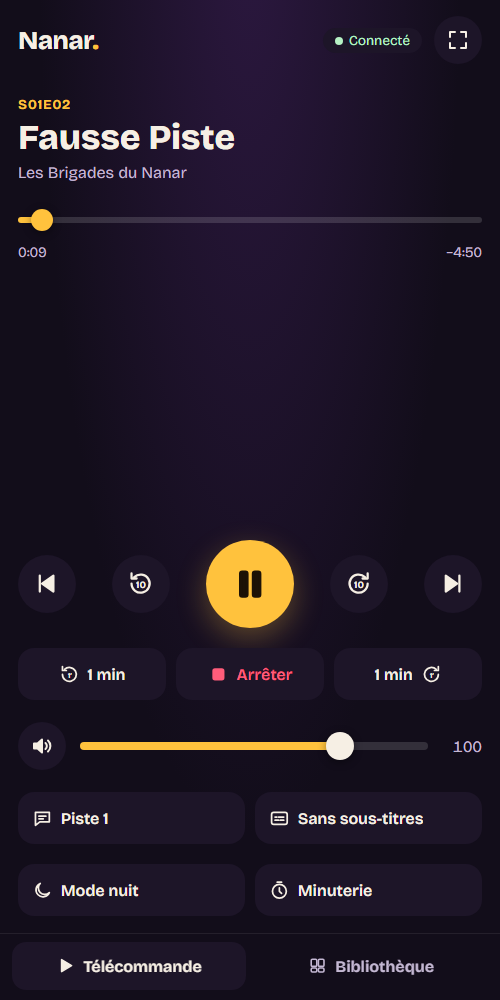
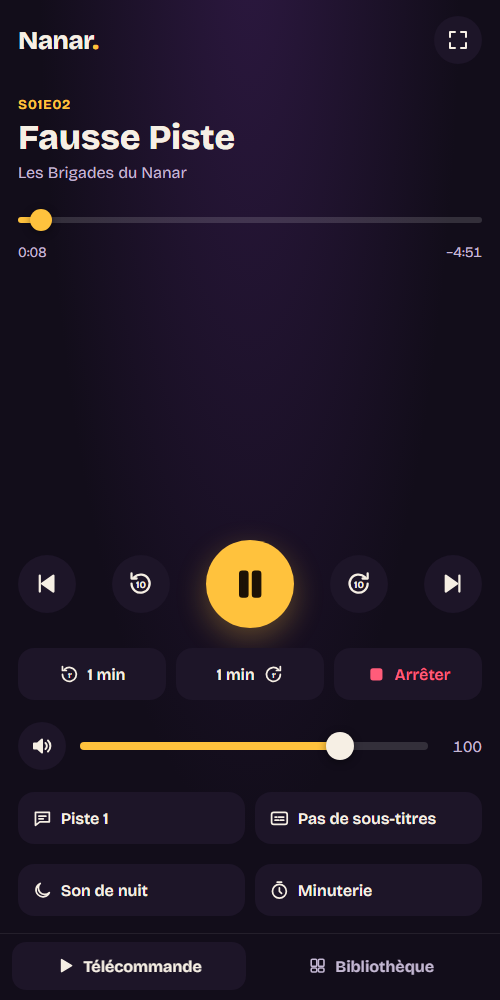
docs: state the limits of plain HTTP, and match the new names

diff --git a/README.md b/README.md
@@ -107,8 +107,8 @@ mires générées à la volée.
 3. Ajoute-la à l’écran d’accueil pour la retrouver d’un geste : sur iPhone, bouton Partager puis
    « Sur l’écran d’accueil » ; sur Android, menu ⋮ puis « Ajouter à l’écran d’accueil ».
 
-Rien ne s’ouvre ? Bouton **Téléphone**, en haut de la télé : ce qu’il faut vérifier, et le mode
-hôtel.
+Rien ne s’ouvre ? Bouton **Connecter un téléphone**, en haut de la télé : ce qu’il faut vérifier, et
+le mode hôtel.
 
 Le code de la télé contient l’adresse du PC, qui change d’un Wi-Fi à l’autre. Nanar s’annonce aussi
 sous le nom **`nanar.local`** : quand ton téléphone sait trouver ce nom (les iPhone toujours, Android
@@ -121,15 +121,16 @@ peut la piloter. Depuis le dossier de Nanar, Nanar fermé, `.\Nanar.exe --new-ke
 (les téléphones associés devront le rescanner), et `.\Nanar.exe --local` coupe la télécommande.
 
 **À l’hôtel ou chez des amis**, le Wi-Fi isole souvent les appareils les uns des autres : le
-téléphone ne voit pas le PC. Sur la télé, bouton **Téléphone**, puis **Ouvrir un Wi-Fi Nanar** : Nanar
+téléphone ne voit pas le PC. Sur la télé, bouton **Connecter un téléphone**, puis **Ouvrir un Wi-Fi Nanar** : Nanar
 ouvre le point d’accès sans fil de Windows, qui partage la connexion du PC, et affiche deux QR codes,
 l’un pour rejoindre ce Wi-Fi, l’autre pour la télécommande. Il le referme quand tu fermes Nanar.
 Autre solution : active le partage de connexion de ton téléphone et connecte le PC dessus ; le QR
 code de la télé suit le changement de réseau en une trentaine de secondes.
 
 Les échanges ne sont pas chiffrés : sur un Wi-Fi public, quelqu’un de mal intentionné sur le même
-réseau pourrait voir ce que tu regardes, et même récupérer le code pour piloter Nanar. Le Wi-Fi Nanar
-ou le partage de connexion évitent ça.
+réseau pourrait voir ce que tu regardes, et même récupérer le code pour piloter Nanar, jusqu’à voir
+la liste de tes vidéos et leurs images. Le Wi-Fi Nanar ou le partage de connexion évitent ça tant que
+le téléphone y reste. Si ça arrive, `.\Nanar.exe --new-key` change le code.
 
 ## Affiches et sous-titres en ligne (en option)
 
@@ -142,7 +143,7 @@ de la télé : une page explique pas à pas comment obtenir chaque clé, gratuit
   va.
 - **OpenSubtitles**, pour les sous-titres. Le bouton apparaît dans les sous-titres de la
   télécommande. Nanar envoie le titre, l’année, l’épisode et l’empreinte de la vidéo (un calcul sur
-  le fichier, qui permet de trouver des sous-titres calés sur ta version, sans dévoiler son
+  le fichier, qui dit quelle version tu as pour trouver des sous-titres calés, sans envoyer son
   contenu). Une fois choisis pour une série, ils sont cherchés tout seuls pour les épisodes suivants,
   dans la limite de cinq par jour. Ils sont gardés dans le dossier de données de Nanar, pas à côté
   de tes films.

diff --git a/CHANGELOG.md b/CHANGELOG.md
@@ -15,8 +15,7 @@ Remplace le dossier à la main une dernière fois.
   déjà ouverte, et `nanar.local` n’annonce plus une adresse que le téléphone ne peut pas joindre.
 - **La télécommande ne se retrouve plus « pas encore associée »** quand elle repasse de
   `nanar.local` à l’adresse du PC : elle s’y associe toute seule, et revient au nom dès qu’il répond.
-- « Connecté » ne s’affiche plus sur un Nanar disparu : la télécommande remarque le silence et
-  repart d’elle-même.
+- La télécommande remarque quand Nanar ne répond plus, et repart d’elle-même.
 - **La mise à jour en un clic marche**, et l’ancienne version revient si la nouvelle ne répond pas.
 - Sécurité : une adresse piégée pouvait faire se connecter le PC à une autre machine, sans clé ; un
   programme posé dans un dossier de films pouvait être lancé à la place de PowerShell. Les deux
@@ -34,8 +33,8 @@ Remplace le dossier à la main une dernière fois.
 - **Une page pour obtenir chaque clé** (TMDB, OpenSubtitles) : les étapes, un bouton pour ouvrir la
   page, de quoi copier les réponses du formulaire. La clé ne s’affiche plus en grand une fois
   enregistrée.
-- **« Téléphone » et « Réglages » en haut de la télé**, plus au bout de la bibliothèque. « Téléphone »
-  dit quoi vérifier quand rien ne s’ouvre, et mène au mode hôtel.
+- **« Connecter un téléphone » et « Réglages » en haut de la télé**, plus au bout de la
+  bibliothèque. Le premier dit quoi vérifier quand rien ne s’ouvre, et mène au mode hôtel.
 - Une série s’ouvre sur l’épisode où tu en es, avec « Reprendre » sur le téléphone. Le téléphone
   explique comment se mettre sur l’écran d’accueil.
 - « Mode nuit » devient « Son de nuit », et d’autres textes plus clairs. Le bandeau de la télé et les

diff --git a/CLAUDE.md b/CLAUDE.md
@@ -105,11 +105,14 @@ Nothing personal goes into code, tests, fixtures, docs, commit messages or commi
   header is ever granted (`/api/health` aside); a WebSocket must come from the page's exact
   origin, and no page shows in another site's frame.
 - **Pairing:** one key per installation (`pairing.py`), shown on the TV as a QR code whose URL
-  carries it in the fragment (never sent to a server or logged). Whoever sees the TV may pair: that
+  carries it in the fragment (never logged; on this plain HTTP, whoever can impersonate the name
+  on the network can obtain it, as the README says). Whoever sees the TV may pair: that
   is the point. `--new-key` unpairs every phone, `--local` listens on loopback only. A paired
   phone's manifest start URL carries the key, so that an iPhone home screen icon (cookies of its
   own) is paired too. A paired phone also keeps the key in `localStorage`, with the PC's other
-  addresses: each address has its own cookie, and falling back to one must not unpair it.
+  addresses: each address has its own cookie and storage, so moving to another carries the key in
+  the URL's fragment. `/api/health` names the instance, so as not to hop to another Nanar by
+  mistake (no proof against a hostile one).
 - **The live connection tells the truth.** Player commands go over the WebSocket, already open:
   each new connection would need `nanar.local` to resolve again. The server sends a tick every ten
   seconds and the page reconnects after 25 s of silence, as a Wi-Fi that drops closes nothing on
